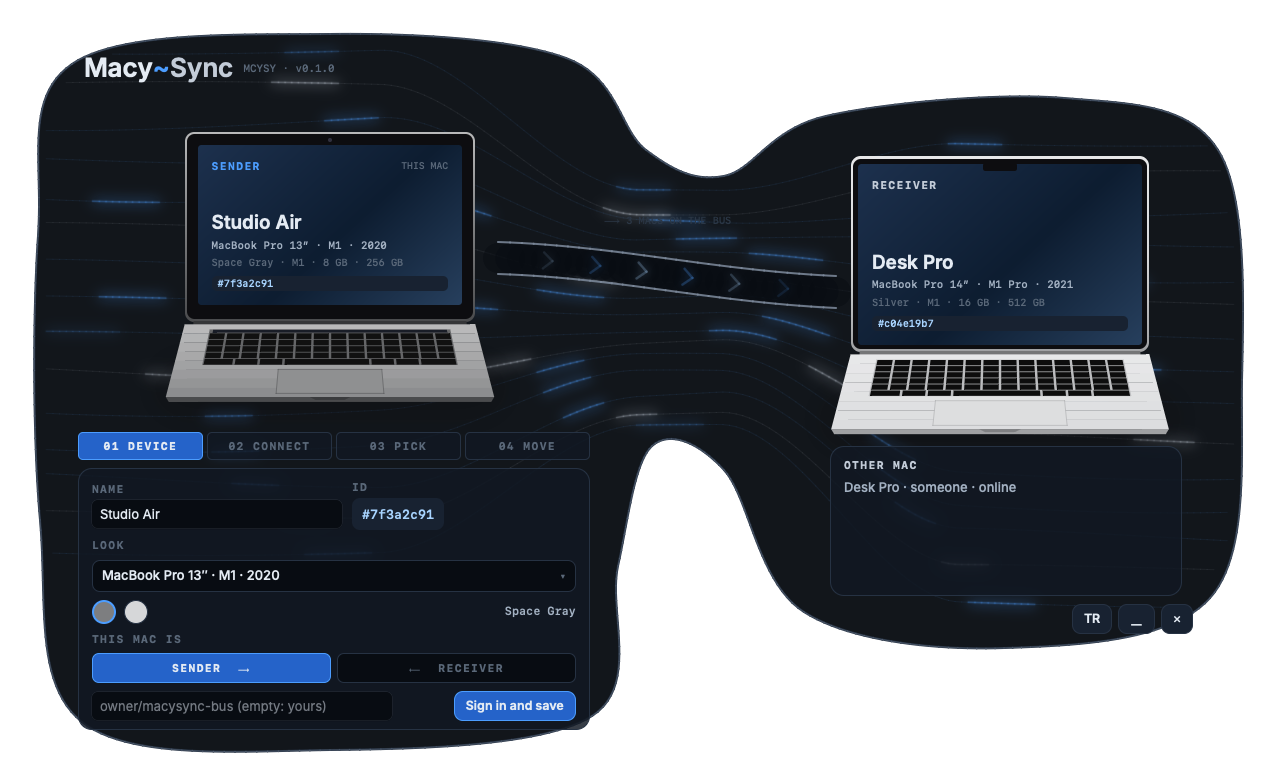
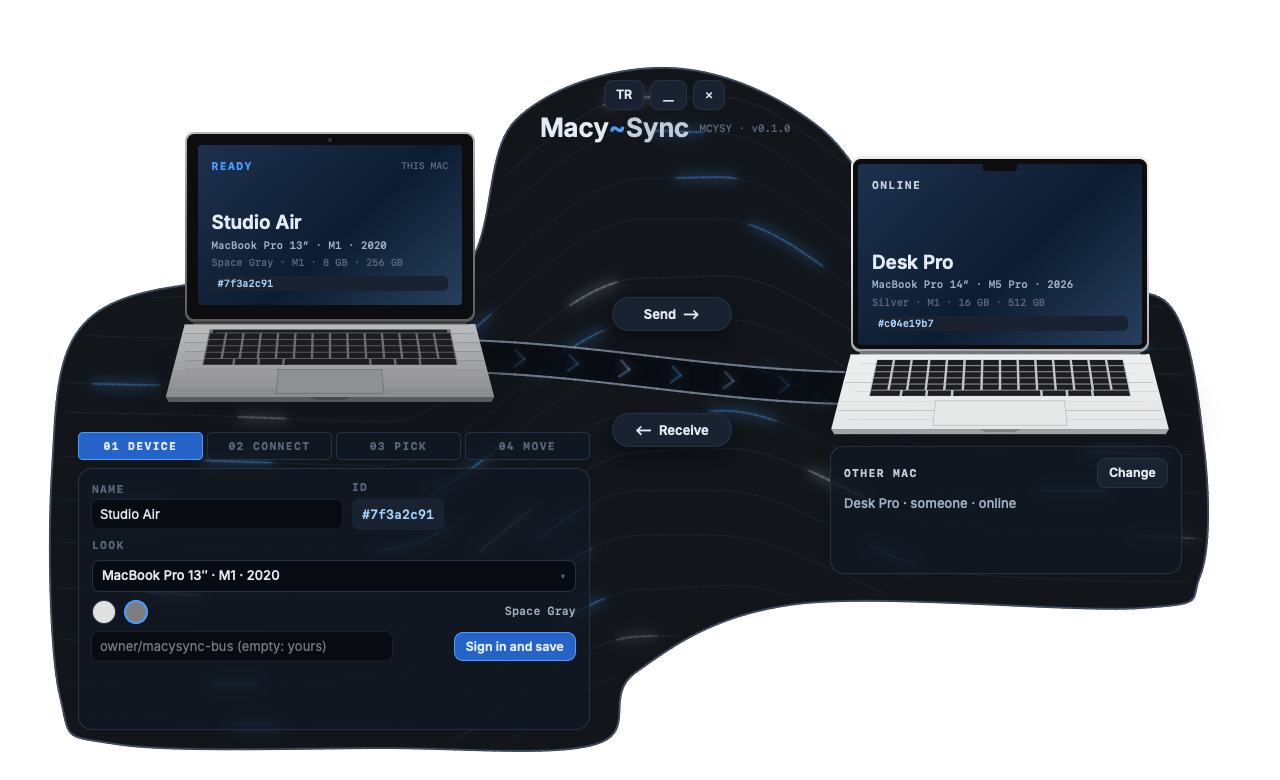
Save in the layout editor redraws the running app
- the app reads assets/layout.json (or MACYSYNC_LAYOUT) and follows it while it runs; a broken file keeps the last good layout
- the background lines are rebuilt when the layout changes
- the editor gets Open app, which starts MacySync in demo mode next to it
- the final layout, and screenshots of every scene with it

diff --git a/tools/layout-editor.html b/tools/layout-editor.html
@@ -75,6 +75,7 @@ svg text { font-family: Inter, -apple-system, sans-serif; }
       <option value="receiving">receiving</option><option value="request">request</option><option value="models">models</option>
     </select>
     <button id="bPreview" data-t="preview" data-tip="tipPreview">Render preview</button>
+    <button id="bApp" data-t="openApp" data-tip="tipApp">Open app</button>
     <div class="sep"></div>
     <button id="bExport" data-t="export" data-tip="tipExport">Export JSON</button>
     <button id="bSave" class="primary" data-t="save" data-tip="tipSave">Save</button>
@@ -135,7 +136,9 @@ const T = {
     preview: "Render preview", export: "Export JSON", save: "Save", selection: "Selection", groups: "Groups", flowTitle: "Background lines", view: "View",
     reference: "Reference", none: "none", lastPreview: "last preview", opacity: "Opacity", showLines: "Lines", showDialog: "Dialog", keys: "Keys",
     howTitle: "How it is applied",
-    howText: "Save writes assets/layout.json, the file the app reads its layout from. Tell Claude \"layout saved\": it rebuilds and checks. Export JSON gives the same file to paste when the page runs without its server.",
+    howText: "Save writes assets/layout.json, the file the app reads its layout from. An open MacySync window (Open app) redraws with it within a second; a release build takes the same file in when it is built. Export JSON gives the same file when the page runs without its server.",
+    openApp: "Open app", launching: "Opening MacySync (demo: made-up Macs, nothing sent)…", launched: "MacySync is open: every Save shows in it.", running: "MacySync is already open: every Save shows in it.", launchFail: "Couldn't open the app: ",
+    tipApp: "<b>Open app</b>: starts MacySync in demo mode (made-up Macs, nothing sent). It follows assets/layout.json, so each Save redraws it.",
     nothing: "Nothing selected. Click a shape, drag a box around several, or double-click the outline to edit its points.",
     pointsOf: "Points of", pointsHint: "Drag points, double-click the line to add one, Delete removes the selected ones, Esc finishes.",
     selectedN: "selected", inGroup: "in group", members: "members", select: "Select", modePoints: "POINT EDIT",
@@ -143,7 +146,7 @@ const T = {
     left_panel: "Left panel (tabs + card)", right_panel: "Right card", actions: "Send / Receive buttons", controls: "Window buttons", dialog: "Request dialog",
     "band:left": "Lines over the left lobe", "band:bridge": "Lines through the bridge", "band:right": "Lines over the right lobe",
     y: "centre y", spread: "spread", intoBridge: "bend into bridge (x)", intoRight: "bend into right (x)",
-    saved: "Saved to assets/layout.json. Tell Claude \"layout saved\" to rebuild the app with it.", saveFail: "Save failed: ",
+    saved: "Saved to assets/layout.json. An open MacySync window redraws with it now.", saveFail: "Save failed: ",
     noServer: "No server: start it with python3 -I tools/layout_editor.py, or use Export JSON.", rendering: "Rendering the real app…",
     rendered: "Preview rendered: it is the reference image now.", renderFail: "Render failed: ", exported: "layout.json downloaded.",
     tipUndo: "<b>Undo</b> (⌘Z): step back one change.", tipRedo: "<b>Redo</b> (⇧⌘Z): step forward again.",
@@ -163,7 +166,9 @@ const T = {
     preview: "Önizleme üret", export: "JSON indir", save: "Kaydet", selection: "Seçim", groups: "Gruplar", flowTitle: "Arka plan çizgileri", view: "Görünüm",
     reference: "Referans", none: "yok", lastPreview: "son önizleme", opacity: "Saydamlık", showLines: "Çizgiler", showDialog: "Diyalog", keys: "Kısayollar",
     howTitle: "Nasıl uygulanır",
-    howText: "Kaydet, uygulamanın düzeni okuduğu assets/layout.json dosyasını yazar. Claude'a \"layout kaydedildi\" de: uygulamayı yeniden derleyip kontrol eder. Sayfa sunucusuz açıldıysa JSON indir aynı dosyayı verir.",
+    howText: "Kaydet, uygulamanın düzeni okuduğu assets/layout.json dosyasını yazar. Açık bir MacySync penceresi (Uygulamayı aç) bir saniye içinde yeniden çizilir; release derlemesi de aynı dosyayı derlenirken içine alır. Sayfa sunucusuz açıldıysa JSON indir aynı dosyayı verir.",
+    openApp: "Uygulamayı aç", launching: "MacySync açılıyor (demo: uydurma Mac'ler, hiçbir şey gönderilmez)…", launched: "MacySync açık: her Kaydet onda görünür.", running: "MacySync zaten açık: her Kaydet onda görünür.", launchFail: "Uygulama açılamadı: ",
+    tipApp: "<b>Uygulamayı aç</b>: MacySync'i demo modunda başlatır (uydurma Mac'ler, hiçbir şey gönderilmez). assets/layout.json'u izler, her Kaydet'te yeniden çizilir.",
     nothing: "Seçili bir şey yok. Bir şekle tıkla, birkaçının çevresine kutu çiz ya da noktalarını düzenlemek için dış hatta çift tıkla.",
     pointsOf: "Noktalar:", pointsHint: "Noktaları sürükle, eklemek için çizgiye çift tıkla, seçilenleri Delete siler, Esc bitirir.",
     selectedN: "seçili", inGroup: "grupta", members: "üye", select: "Seç", modePoints: "NOKTA DÜZENLEME",
@@ -171,7 +176,7 @@ const T = {
     left_panel: "Sol panel (sekmeler + kart)", right_panel: "Sağ kart", actions: "Gönder / Al düğmeleri", controls: "Pencere düğmeleri", dialog: "İstek diyaloğu",
     "band:left": "Sol lobdaki çizgiler", "band:bridge": "Köprüden geçen çizgiler", "band:right": "Sağ lobdaki çizgiler",
     y: "merkez y", spread: "yayılım", intoBridge: "köprüye kıvrılma (x)", intoRight: "sağa kıvrılma (x)",
-    saved: "assets/layout.json kaydedildi. Uygulamayı bununla derlemesi için Claude'a \"layout kaydedildi\" de.", saveFail: "Kaydedilemedi: ",
+    saved: "assets/layout.json kaydedildi. Açık MacySync penceresi şimdi yeniden çiziliyor.", saveFail: "Kaydedilemedi: ",
     noServer: "Sunucu yok: python3 -I tools/layout_editor.py ile başlat ya da JSON indir'i kullan.", rendering: "Gerçek uygulama çiziliyor…",
     rendered: "Önizleme hazır: artık referans görüntü o.", renderFail: "Çizilemedi: ", exported: "layout.json indirildi.",
     tipUndo: "<b>Geri al</b> (⌘Z): bir değişiklik geri.", tipRedo: "<b>Yinele</b> (⇧⌘Z): yeniden ileri.",
@@ -665,6 +670,15 @@ async function preview() {
     document.getElementById("refSel").value = "preview"; setRef(); toast(t("rendered"));
   } catch (e) { toast(location.protocol === "file:" ? t("noServer") : t("renderFail") + e.message, true); }
 }
+async function openApp() {
+  toast(t("launching"));
+  try {
+    const r = await fetch("/launch", { method: "POST", headers: { "Content-Type": "application/json" }, body: "{}" });
+    const j = await r.json();
+    if (!r.ok) throw new Error(j.error || r.status);
+    toast(t(j.running ? "running" : "launched"));
+  } catch (e) { toast(location.protocol === "file:" ? t("noServer") : t("launchFail") + e.message, true); }
+}
 function setRef() {
   const v = document.getElementById("refSel").value, img = document.getElementById("ref");
   const src = v === "preview" ? previewUrl : v ? "/shots/" + v : "";
@@ -681,6 +695,7 @@ document.getElementById("bSnap").onclick = () => { snap = !snap; document.getEle
 document.getElementById("bSave").onclick = save;
 document.getElementById("bExport").onclick = exportJson;
 document.getElementById("bPreview").onclick = preview;
+document.getElementById("bApp").onclick = openApp;
 document.getElementById("refSel").onchange = setRef;
 document.getElementById("refOp").oninput = setRef;
 document.getElementById("showLines").onchange = render;

diff --git a/src/ui.rs b/src/ui.rs
@@ -93,13 +93,48 @@ pub struct FlowGuide {
     pub into_right: [f32; 2],
 }
 
+static LAYOUT: std::sync::RwLock<Option<&'static Layout>> = std::sync::RwLock::new(None);
+
+/// The layout file the app follows: MACYSYNC_LAYOUT, else this checkout's assets/layout.json when the app was
+/// built from it on this Mac. Elsewhere there is none and the copy built in is used.
+fn layout_file() -> Option<std::path::PathBuf> {
+    std::env::var_os("MACYSYNC_LAYOUT").map(Into::into)
+        .or_else(|| Some(std::path::PathBuf::from(concat!(env!("CARGO_MANIFEST_DIR"), "/assets/layout.json"))).filter(|p| p.exists()))
+}
+
+fn read_layout(path: &std::path::Path) -> Result<Layout, String> {
+    let text = std::fs::read_to_string(path).map_err(|e| e.to_string())?;
+    serde_json::from_str(&text).map_err(|e| e.to_string())
+}
+
 pub fn layout() -> &'static Layout {
-    static L: std::sync::OnceLock<Layout> = std::sync::OnceLock::new();
-    L.get_or_init(|| {
-        let custom = std::env::var_os("MACYSYNC_LAYOUT").and_then(|p| std::fs::read_to_string(p).ok());
-        let text = custom.as_deref().unwrap_or(include_str!("../assets/layout.json"));
-        serde_json::from_str(text).unwrap_or_else(|e| panic!("layout.json: {e}"))
+    if let Some(l) = *LAYOUT.read().unwrap() {
+        return l;
+    }
+    *LAYOUT.write().unwrap().get_or_insert_with(|| {
+        let l = match layout_file() {
+            Some(p) => read_layout(&p),
+            None => serde_json::from_str(include_str!("../assets/layout.json")).map_err(|e| e.to_string()),
+        };
+        Box::leak(Box::new(l.unwrap_or_else(|e| panic!("layout.json: {e}"))))
     })
+}
+
+/// Takes `path` again when its time changed since `seen`: a save in the layout editor shows in the running app.
+/// A file caught half written is skipped; the next change brings it in.
+fn reload_layout(path: &std::path::Path, seen: &mut Option<std::time::SystemTime>) -> bool {
+    let Ok(t) = std::fs::metadata(path).and_then(|m| m.modified()) else { return false };
+    if seen.replace(t).is_none_or(|old| old == t) {
+        return false;
+    }
+    match read_layout(path) {
+        // ponytail: each reload leaks the old layout (about 2 KB), fine for an editing session.
+        Ok(l) => {
+            *LAYOUT.write().unwrap() = Some(Box::leak(Box::new(l)));
+            true
+        }
+        Err(_) => false,
+    }
 }
 
 const LID: f32 = 0.655;
@@ -170,6 +205,9 @@ pub struct S {
     picked: Option<(Rect, f32)>,
     /// 1 while the pointer is on Send, -1 on Receive: the lines show which way it would go.
     hover_dir: f32,
+    /// When the layout file was last read, and when it was last looked at.
+    layout_seen: Option<std::time::SystemTime>,
+    layout_checked: f32,
 }
 
 /// Where the dashes are along their curves, as in WavySync: they speed up towards `dir` (1 runs left to
@@ -246,6 +284,8 @@ fn init() -> S {
         glow: Default::default(),
         picked: None,
         hover_dir: 0.0,
+        layout_seen: None,
+        layout_checked: 0.0,
         cfg,
     }
 }
@@ -523,6 +563,12 @@ fn poll(s: &mut S, now: f64, tx: &mut Tx) -> bool {
     while let Ok(job) = s.jobs.1.try_recv() {
         s.land(job);
     }
+    if now - s.layout_checked > 0.4 {
+        s.layout_checked = now;
+        if let Some(p) = layout_file() {
+            reload_layout(&p, &mut s.layout_seen);
+        }
+    }
     if !s.demo && s.bus.is_some() && !s.polling && now - s.polled_at > POLL_S {
         s.polled_at = now;
         s.poll_bus();
@@ -624,49 +670,61 @@ fn hash(n: u32) -> f32 {
     (x & 0xFFFF) as f32 / 65535.0
 }
 
+/// The lines for the current layout, made again when the layout changes.
 fn flow_lines() -> &'static [FlowLine] {
-    static L: std::sync::OnceLock<Vec<FlowLine>> = std::sync::OnceLock::new();
-    L.get_or_init(|| {
-        let poly: Vec<[f32; 2]> = segments().into_iter().flat_map(|s| (1..=16).map(move |i| bezier(s, i as f32 / 16.0))).collect();
-        (0..LINES)
-            .map(|i| {
-                let o = -1.0 + 2.0 * i as f32 / (LINES - 1) as f32;
-                // They fan out over each lobe and squeeze through the bridge.
-                let f = layout().flow;
-                let (yl, yb, yr) = (f.left.y + o * f.left.spread, f.bridge.y + o * f.bridge.spread, f.right.y + o * f.right.spread);
-                let wobble = 4.0 + 6.0 * hash(i as u32 * 7 + 1);
-                let shift = hash(i as u32 * 13 + 5) * std::f32::consts::TAU;
-                let pts: Vec<[f32; 2]> = (0..SAMPLES)
-                    .map(|j| {
-                        let x = -20.0 + 1320.0 * j as f32 / (SAMPLES - 1) as f32;
-                        let sm = |a: f32, b: f32| {
-                            let t = ((x - a) / (b - a)).clamp(0.0, 1.0);
-                            t * t * (3.0 - 2.0 * t)
-                        };
-                        let y = yl + (yb - yl) * sm(f.into_bridge[0], f.into_bridge[1]) + (yr - yb) * sm(f.into_right[0], f.into_right[1]) + wobble * (x / 160.0 + shift).sin();
-                        [x, y]
-                    })
-                    .collect();
-                let depth: Vec<f32> = pts.iter().map(|p| depth(&poly, *p)).collect();
-                let mut inside = Vec::new();
-                let mut from = None;
-                for (j, d) in depth.iter().chain([&-1.0]).enumerate() {
-                    match (from, *d > 6.0) {
-                        (None, true) => from = Some(j),
-                        (Some(a), false) => {
-                            if j - a > 1 {
-                                inside.push(a..j);
-                            }
-                            from = None;
+    static LINES: std::sync::Mutex<Option<(usize, &'static [FlowLine])>> = std::sync::Mutex::new(None);
+    let key = layout() as *const Layout as usize;
+    let mut cache = LINES.lock().unwrap();
+    if let Some((k, lines)) = *cache
+        && k == key
+    {
+        return lines;
+    }
+    let lines: &'static [FlowLine] = Box::leak(make_flow_lines().into_boxed_slice());
+    *cache = Some((key, lines));
+    lines
+}
+
+fn make_flow_lines() -> Vec<FlowLine> {
+    let poly: Vec<[f32; 2]> = segments().into_iter().flat_map(|s| (1..=16).map(move |i| bezier(s, i as f32 / 16.0))).collect();
+    (0..LINES)
+        .map(|i| {
+            let o = -1.0 + 2.0 * i as f32 / (LINES - 1) as f32;
+            // They fan out over each lobe and squeeze through the bridge.
+            let f = layout().flow;
+            let (yl, yb, yr) = (f.left.y + o * f.left.spread, f.bridge.y + o * f.bridge.spread, f.right.y + o * f.right.spread);
+            let wobble = 4.0 + 6.0 * hash(i as u32 * 7 + 1);
+            let shift = hash(i as u32 * 13 + 5) * std::f32::consts::TAU;
+            let pts: Vec<[f32; 2]> = (0..SAMPLES)
+                .map(|j| {
+                    let x = -20.0 + 1320.0 * j as f32 / (SAMPLES - 1) as f32;
+                    let sm = |a: f32, b: f32| {
+                        let t = ((x - a) / (b - a)).clamp(0.0, 1.0);
+                        t * t * (3.0 - 2.0 * t)
+                    };
+                    let y = yl + (yb - yl) * sm(f.into_bridge[0], f.into_bridge[1]) + (yr - yb) * sm(f.into_right[0], f.into_right[1]) + wobble * (x / 160.0 + shift).sin();
+                    [x, y]
+                })
+                .collect();
+            let depth: Vec<f32> = pts.iter().map(|p| depth(&poly, *p)).collect();
+            let mut inside = Vec::new();
+            let mut from = None;
+            for (j, d) in depth.iter().chain([&-1.0]).enumerate() {
+                match (from, *d > 6.0) {
+                    (None, true) => from = Some(j),
+                    (Some(a), false) => {
+                        if j - a > 1 {
+                            inside.push(a..j);
                         }
-                        _ => {}
+                        from = None;
                     }
+                    _ => {}
                 }
-                let (offset, len) = (hash(i as u32 * 61 + 9), 0.03 + 0.024 * hash(i as u32 * 17 + 3));
-                FlowLine { pts, depth, inside, offset, len, speed: if i % 3 == 0 { 2.0 } else { 1.0 } }
-            })
-            .collect()
-    })
+            }
+            let (offset, len) = (hash(i as u32 * 61 + 9), 0.03 + 0.024 * hash(i as u32 * 17 + 3));
+            FlowLine { pts, depth, inside, offset, len, speed: if i % 3 == 0 { 2.0 } else { 1.0 } }
+        })
+        .collect()
 }
 
 fn backdrop(s: &S) -> Vec<El> {
@@ -1242,4 +1300,30 @@ pub fn run(demo_mode: bool) {
     let options = WindowOptions { transparent: true, borderless: true, resizable: false, position: background.then_some((-4000, 100)), ..Default::default() };
     let app = App::new(spec).window_options(options);
     if background { app.open_inactive().run() } else { app.run() }
+}
+
+#[cfg(test)]
+mod tests {
+    use super::*;
+
+    #[test]
+    fn a_saved_layout_replaces_the_running_one() {
+        let path = std::env::temp_dir().join(format!("macysync-layout-{}.json", std::process::id()));
+        let mut l: serde_json::Value = serde_json::from_str(include_str!("../assets/layout.json")).unwrap();
+        std::fs::write(&path, l.to_string()).unwrap();
+        let mut seen = None;
+        assert!(!reload_layout(&path, &mut seen), "the first look only notes the time");
+        let lines = flow_lines().as_ptr();
+        l["elements"]["title"]["x"] = 333.0.into();
+        std::thread::sleep(std::time::Duration::from_millis(20));
+        std::fs::write(&path, l.to_string()).unwrap();
+        assert!(reload_layout(&path, &mut seen));
+        assert_eq!(layout().elements.title.x, 333.0);
+        assert_ne!(flow_lines().as_ptr(), lines, "the lines follow the new layout");
+        std::thread::sleep(std::time::Duration::from_millis(20));
+        std::fs::write(&path, "{ half written").unwrap();
+        assert!(!reload_layout(&path, &mut seen), "a broken file keeps the last good layout");
+        assert_eq!(layout().elements.title.x, 333.0);
+        let _ = std::fs::remove_file(path);
+    }
 }

diff --git a/tools/layout_editor.py b/tools/layout_editor.py
@@ -3,7 +3,9 @@ the real app with an unsaved layout for the preview.
 
 usage: python3 -I tools/layout_editor.py [port]      then open http://127.0.0.1:8793/
 
-Listens on 127.0.0.1 only. A save keeps the previous layout in tools/layout-backups/.
+Listens on 127.0.0.1 only. A save keeps the previous layout in tools/layout-backups/. A MacySync built from
+this folder reads assets/layout.json while it runs, so an open window redraws with each save; "Open app"
+starts one in demo mode (made-up Macs, nothing sent anywhere).
 """
 
 import json
@@ -19,6 +21,7 @@ LAYOUT = ROOT / "assets" / "layout.json"
 BIN = ROOT / "target" / "debug" / "macysync"
 SCENES = {"connect", "device", "models", "request", "sending", "receiving", "tr"}
 PORT = int(sys.argv[1]) if len(sys.argv) > 1 else 8793
+app = None  # the demo window "Open app" started
 
 
 def valid(layout: object) -> bool:
@@ -69,6 +72,15 @@ class Handler(BaseHTTPRequestHandler):
             (backups / f"layout-{time.strftime('%Y%m%d-%H%M%S')}.json").write_bytes(LAYOUT.read_bytes())
             LAYOUT.write_text(json.dumps(layout, indent=2) + "\n")
             return self.send(200, json.dumps({"ok": True, "path": str(LAYOUT)}).encode(), "application/json")
+        if self.path == "/launch":
+            global app
+            if app is not None and app.poll() is None:
+                return self.send(200, b'{"ok":true,"running":true}', "application/json")
+            b = subprocess.run(["cargo", "build", "-j", "3"], cwd=ROOT, capture_output=True)
+            if b.returncode != 0:
+                return self.send(500, json.dumps({"error": b.stderr.decode(errors="replace")[-600:]}).encode(), "application/json")
+            app = subprocess.Popen([str(BIN), "--demo"], cwd=ROOT, stdout=subprocess.DEVNULL, stderr=subprocess.DEVNULL)
+            return self.send(200, b'{"ok":true}', "application/json")
         if self.path == "/render":
             layout, scene = body.get("layout"), body.get("scene", "connect")
             if not valid(layout) or scene not in SCENES:
